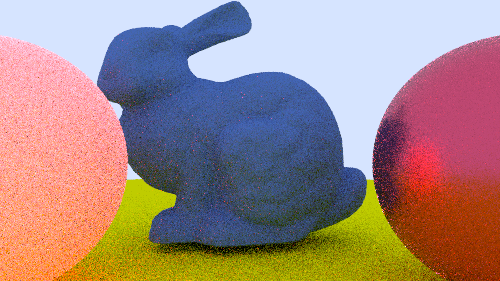
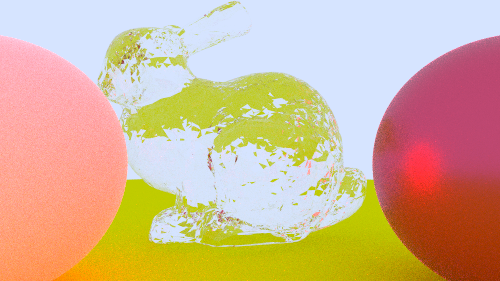
comment out test stuff so clippy doesn't yell at me

diff --git a/src/main.rs b/src/main.rs
@@ -273,11 +273,10 @@ fn basic_light_scene() {
 fn cornell_box_scene() {
     let mut world = World::new();
 
-    let red = Arc::new(DiffuseBRDF::from_rgb(Vec3::new(0.65, 0.05, 0.05)));
-
+    // let red = Arc::new(DiffuseBRDF::from_rgb(Vec3::new(0.65, 0.05, 0.05)));
     let bricks_texture = ImageTexture::new("bricks/color.png");
     let bricks_normal = ImageTexture::new("bricks/normal.png");
-    let red = Arc::new(DiffuseBRDF::from_textures(bricks_texture, None));
+    let red = Arc::new(DiffuseBRDF::from_textures(bricks_texture, Some(bricks_normal)));
 
     let white = Arc::new(DiffuseBRDF::from_rgb(Vec3::new(0.73, 0.73, 0.73)));
     let green = Arc::new(DiffuseBRDF::from_rgb(Vec3::new(0.12, 0.45, 0.15)));
@@ -397,10 +396,10 @@ fn test_scene() {
     // let material_left = Arc::new(MetalBRDF::new(Vec3::new(0.8, 0.1, 0.2), 0.3));
     // let material_left = Arc::new(GlassBSDF::new(0.1, 1.5));
     // let material_left = Arc::new(ClearcoatBRDF::new(0.5));
+    
     let color_tex = Arc::new(SolidTexture::new(Vec3::new(0.8, 0.2, 0.2)));
-
-    let tex1 = SolidTexture::new(Vec3::new(0.2, 0.3, 0.1));
-    let tex2 = SolidTexture::new(Vec3::new(0.9, 0.9, 0.9));
+    // let tex1 = SolidTexture::new(Vec3::new(0.2, 0.3, 0.1));
+    // let tex2 = SolidTexture::new(Vec3::new(0.9, 0.9, 0.9));
     // let color_tex = Arc::new(CheckerTexture::new(0.32, Arc::new(tex1), Arc::new(tex2)));
     let material_left = Arc::new(PrincipledBSDF::new(
         color_tex, // base_color,
@@ -466,9 +465,9 @@ fn test_scene() {
 fn bunny_scene() {
     let mut world = World::new();
     let material_ground = Arc::new(DiffuseBRDF::from_rgb(Vec3::new(0.8, 0.8, 0.0)));
-    let material_center = Arc::new(DiffuseBRDF::from_rgb(Vec3::new(0.1, 0.2, 0.5)));
+    // let material_center = Arc::new(DiffuseBRDF::from_rgb(Vec3::new(0.1, 0.2, 0.5)));
     // let material_center = Arc::new(MetalBRDF::from_rgb(Vec3::ONE, 0.1));
-    // let material_center = Arc::new(GlassBSDF::basic(1.5));
+    let material_center = Arc::new(GlassBSDF::basic(1.5));
     let color_tex = Arc::new(SolidTexture::new(Vec3::new(0.8, 0.2, 0.2)));
 
     let material_left = Arc::new(PrincipledBSDF::new(
@@ -509,12 +508,12 @@ fn bunny_scene() {
         material_right,
     ));
 
-    // world.build_bvh();
+    world.build_bvh();
 
     let mut camera = Camera::new();
     camera.aspect_ratio = 16.0 / 9.0;
     camera.image_width = 500;
-    camera.samples_per_pixel = 10;
+    camera.samples_per_pixel = 100;
     camera.max_depth = 20;
 
     camera.vfov = 40.0;

diff --git a/src/bsdf/mod.rs b/src/bsdf/mod.rs
@@ -3,7 +3,7 @@ use std::sync::Arc;
 use crate::{
     hittable::HitInfo,
     ray::Ray,
-    texture::{ImageTexture, Texture},
+    texture::ImageTexture,
     vec3::{Luminance, Vec3},
 };
 
